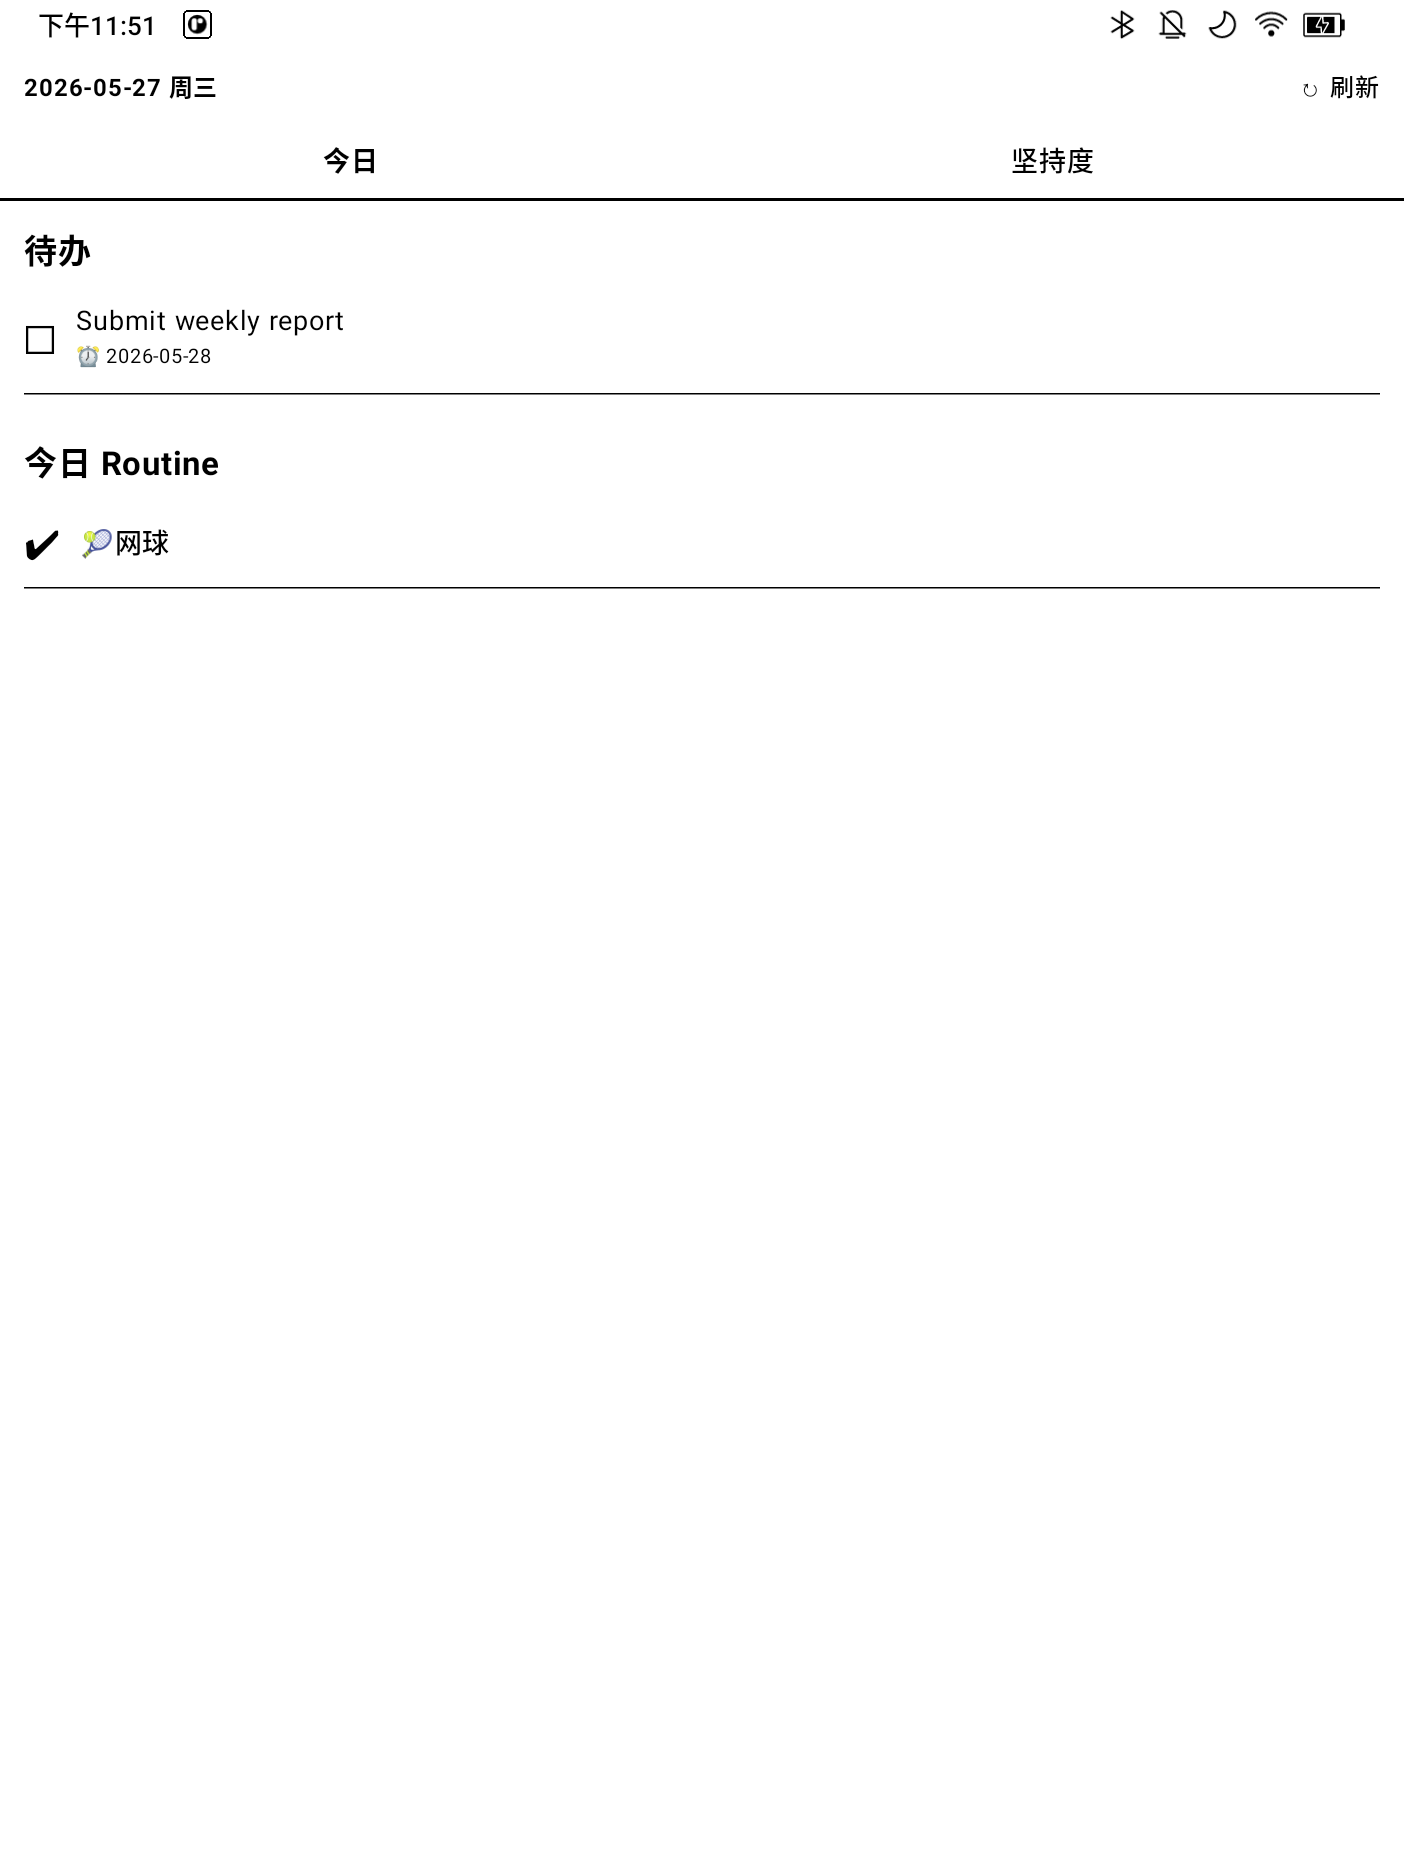
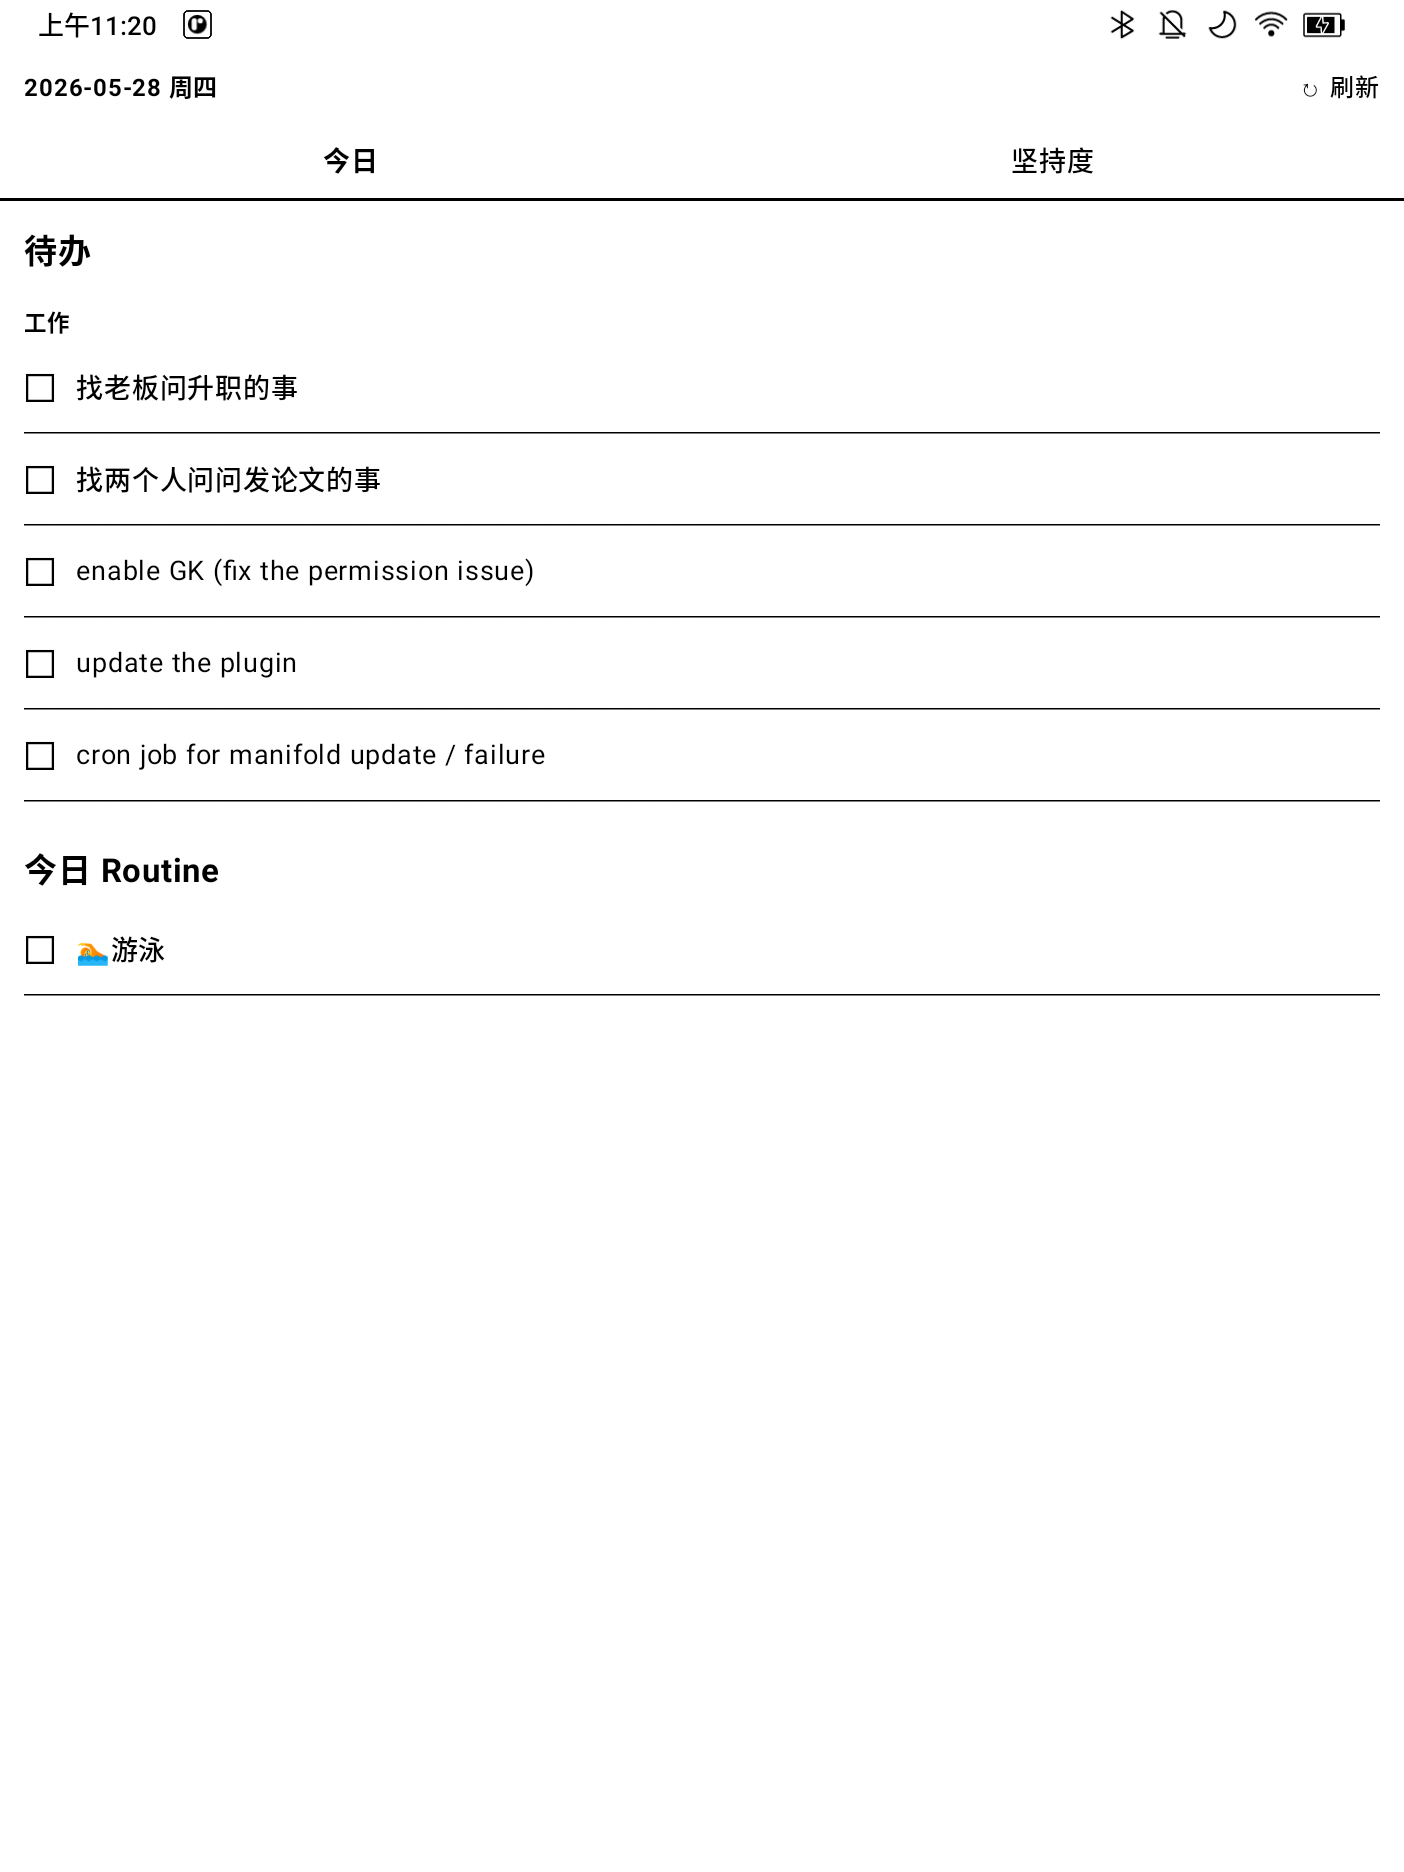
Add work/exercise/life categories to tasks and routines
- schema: add nullable `category` column to tasks and routines, with
  idempotent ALTER migrations for existing databases
- todo.py: --category/-c flag on task/routine add, new `task cat`
  command, category alias normalization, grouped list/today output
- app: category field on Task/Routine models; TodayScreen groups tasks
  under 工作/运动/生活 headers (others last)

diff --git a/android/app/src/main/java/com/boox/dailytodo/ui/Screens.kt b/android/app/src/main/java/com/boox/dailytodo/ui/Screens.kt
@@ -50,29 +50,41 @@ fun TodayScreen(vm: MainViewModel) {
         if (vm.tasks.isEmpty()) {
             Text("今天没有待办 🎉", fontSize = 16.sp)
         } else {
-            vm.tasks.forEach { t ->
-                Row(
-                    Modifier
-                        .fillMaxWidth()
-                        .noRippleClickable { vm.toggleTask(t) }
-                        .padding(vertical = 12.dp),
-                    verticalAlignment = Alignment.CenterVertically
-                ) {
-                    Text(if (t.done) "☑" else "☐", fontSize = 26.sp)
-                    Spacer(Modifier.width(12.dp))
-                    Column {
-                        Text(t.title, fontSize = 18.sp)
-                        t.dueDate?.let { due ->
-                            val overdue = due < todayStr
-                            Text(
-                                (if (overdue) "⚠ 逾期 " else "⏰ ") + due,
-                                fontSize = 13.sp,
-                                fontWeight = if (overdue) FontWeight.Bold else FontWeight.Normal
-                            )
+            val order = listOf("工作", "运动", "生活")
+            val grouped = vm.tasks.groupBy { it.category ?: "其他" }
+            val cats = order.filter { grouped.containsKey(it) } +
+                grouped.keys.filter { it !in order }
+            cats.forEach { cat ->
+                Text(
+                    cat,
+                    fontSize = 15.sp,
+                    fontWeight = FontWeight.Bold,
+                    modifier = Modifier.padding(top = 12.dp, bottom = 2.dp)
+                )
+                grouped.getValue(cat).forEach { t ->
+                    Row(
+                        Modifier
+                            .fillMaxWidth()
+                            .noRippleClickable { vm.toggleTask(t) }
+                            .padding(vertical = 12.dp),
+                        verticalAlignment = Alignment.CenterVertically
+                    ) {
+                        Text(if (t.done) "☑" else "☐", fontSize = 26.sp)
+                        Spacer(Modifier.width(12.dp))
+                        Column {
+                            Text(t.title, fontSize = 18.sp)
+                            t.dueDate?.let { due ->
+                                val overdue = due < todayStr
+                                Text(
+                                    (if (overdue) "⚠ 逾期 " else "⏰ ") + due,
+                                    fontSize = 13.sp,
+                                    fontWeight = if (overdue) FontWeight.Bold else FontWeight.Normal
+                                )
+                            }
                         }
                     }
+                    HorizontalDivider(color = Color.Black, thickness = 1.dp)
                 }
-                HorizontalDivider(color = Color.Black, thickness = 1.dp)
             }
         }
 

diff --git a/android/app/src/main/java/com/boox/dailytodo/Models.kt b/android/app/src/main/java/com/boox/dailytodo/Models.kt
@@ -11,6 +11,7 @@ data class Task(
     val done: Boolean = false,
     @SerialName("due_date") val dueDate: String? = null,
     @SerialName("created_at") val createdAt: String? = null,
+    val category: String? = null,   // 工作 | 运动 | 生活
 )
 
 @Serializable
@@ -20,6 +21,7 @@ data class Routine(
     val icon: String? = null,
     val weekdays: List<Int> = emptyList(), // ISO weekday: 1=Mon .. 7=Sun
     val active: Boolean = true,
+    val category: String? = null,   // 工作 | 运动 | 生活
 )
 
 @Serializable

diff --git a/scripts/todo.py b/scripts/todo.py
@@ -116,6 +116,31 @@ def short(id_):
     return id_[:8]
 
 
+# ---------- categories ----------
+CATEGORIES = ["工作", "运动", "生活"]
+CATEGORY_ALIASES = {
+    "work": "工作", "job": "工作", "工作": "工作",
+    "sport": "运动", "exercise": "运动", "fitness": "运动", "workout": "运动", "运动": "运动",
+    "life": "生活", "personal": "生活", "生活": "生活",
+}
+
+
+def norm_category(s):
+    if not s:
+        return None
+    return CATEGORY_ALIASES.get(s.strip().lower(), s.strip())
+
+
+def group_by_category(rows):
+    order = CATEGORIES + ["其他"]
+    buckets = {}
+    for r in rows:
+        buckets.setdefault(r.get("category") or "其他", []).append(r)
+    out = [(c, buckets[c]) for c in order if c in buckets]
+    out += [(c, items) for c, items in buckets.items() if c not in order]
+    return out
+
+
 # ---------- tasks ----------
 def fetch_tasks(include_done=False):
     params = {"select": "*", "order": "due_date.asc.nullslast,created_at.asc"}
@@ -148,9 +173,13 @@ def cmd_task_add(a):
         body["due_date"] = parse_due(a.due)
     if a.notes:
         body["notes"] = a.notes
+    cat = norm_category(a.category)
+    if cat:
+        body["category"] = cat
     r = rest("POST", "tasks", body=body)[0]
     due = f" (due {r['due_date']})" if r.get("due_date") else ""
-    print(f"✅ Added: {r['title']}{due}  [{short(r['id'])}]")
+    tag = f"[{r['category']}] " if r.get("category") else ""
+    print(f"✅ Added: {tag}{r['title']}{due}  [{short(r['id'])}]")
 
 
 def cmd_task_list(a):
@@ -158,10 +187,12 @@ def cmd_task_list(a):
     if not rows:
         print("(no tasks)")
         return
-    for r in rows:
-        box = "☑" if r["done"] else "☐"
-        due = f" ⏰{r['due_date']}" if r.get("due_date") else ""
-        print(f"{box} [{short(r['id'])}] {r['title']}{due}")
+    for cat, items in group_by_category(rows):
+        print(f"【{cat}】")
+        for r in items:
+            box = "☑" if r["done"] else "☐"
+            due = f" ⏰{r['due_date']}" if r.get("due_date") else ""
+            print(f"  {box} [{short(r['id'])}] {r['title']}{due}")
 
 
 def cmd_task_done(a):
@@ -176,6 +207,13 @@ def cmd_task_rm(a):
     r = resolve_task(a.ref)
     rest("DELETE", "tasks", params={"id": f"eq.{r['id']}"})
     print(f"🗑 Removed: {r['title']}")
+
+
+def cmd_task_cat(a):
+    r = resolve_task(a.ref)
+    cat = norm_category(a.category)
+    rest("PATCH", "tasks", params={"id": f"eq.{r['id']}"}, body={"category": cat})
+    print(f"🏷 {r['title']} → {cat or '(无)'}")
 
 
 # ---------- routines ----------
@@ -209,6 +247,9 @@ def cmd_routine_add(a):
     body = {"name": a.name, "weekdays": days, "active": True}
     if a.icon:
         body["icon"] = a.icon
+    cat = norm_category(a.category)
+    if cat:
+        body["category"] = cat
     r = rest("POST", "routines", body=body)[0]
     dd = "、".join(WEEKDAY_CN[d] for d in days)
     print(f"✅ Routine added: {r.get('icon') or ''}{r['name']} ({dd})  [{short(r['id'])}]")
@@ -283,9 +324,11 @@ def cmd_today(a):
     todays = [t for t in tasks if not t.get("due_date") or t["due_date"] <= today.isoformat()]
     if not todays:
         print("  (无)")
-    for t in todays:
-        due = f" ⏰{t['due_date']}" if t.get("due_date") else ""
-        print(f"  ☐ [{short(t['id'])}] {t['title']}{due}")
+    for cat, items in group_by_category(todays):
+        print(f"  【{cat}】")
+        for t in items:
+            due = f" ⏰{t['due_date']}" if t.get("due_date") else ""
+            print(f"    ☐ [{short(t['id'])}] {t['title']}{due}")
     print("── 今日 routine ──")
     routines = [r for r in fetch_routines(active_only=True) if iso in r["weekdays"]]
     if not routines:
@@ -306,14 +349,15 @@ def main():
 
     pt = sub.add_parser("task")
     ts = pt.add_subparsers(dest="sub")
-    a = ts.add_parser("add"); a.add_argument("title"); a.add_argument("--due"); a.add_argument("--notes"); a.set_defaults(func=cmd_task_add)
+    a = ts.add_parser("add"); a.add_argument("title"); a.add_argument("--due"); a.add_argument("--notes"); a.add_argument("--category", "-c"); a.set_defaults(func=cmd_task_add)
     a = ts.add_parser("list"); a.add_argument("--all", action="store_true"); a.set_defaults(func=cmd_task_list)
+    a = ts.add_parser("cat"); a.add_argument("ref"); a.add_argument("category"); a.set_defaults(func=cmd_task_cat)
     a = ts.add_parser("done"); a.add_argument("ref"); a.set_defaults(func=cmd_task_done)
     a = ts.add_parser("rm"); a.add_argument("ref"); a.set_defaults(func=cmd_task_rm)
 
     pr = sub.add_parser("routine")
     rs = pr.add_subparsers(dest="sub")
-    a = rs.add_parser("add"); a.add_argument("name"); a.add_argument("--days", required=True); a.add_argument("--icon"); a.set_defaults(func=cmd_routine_add)
+    a = rs.add_parser("add"); a.add_argument("name"); a.add_argument("--days", required=True); a.add_argument("--icon"); a.add_argument("--category", "-c"); a.set_defaults(func=cmd_routine_add)
     a = rs.add_parser("list"); a.add_argument("--all", action="store_true"); a.set_defaults(func=cmd_routine_list)
     a = rs.add_parser("rm"); a.add_argument("ref"); a.set_defaults(func=cmd_routine_rm)
     a = rs.add_parser("log"); a.add_argument("ref"); a.add_argument("--date"); a.add_argument("--undo", action="store_true"); a.set_defaults(func=cmd_routine_log)